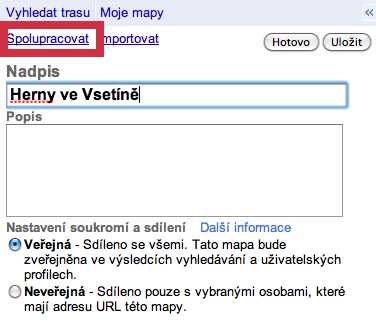
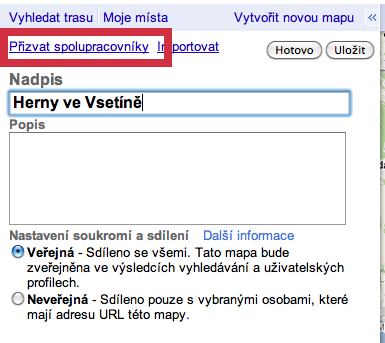
Aktualizace obrazku po Googlim update Mych map + aktualizace instrukci

Changed region(s): [[0.0, 0.0, 0.9362, 0.9697], [0.5851, 0.0, 1.0, 1.0]]

diff --git a/hazard/shared/templates/shared/instruction.html b/hazard/shared/templates/shared/instruction.html
@@ -16,24 +16,24 @@
     <h4>Nakreslení mapy heren</h4>
     <ul>
         <li>Navštivte adresu <a href="http://maps.google.com/">maps.google.com</a>
-        <li>V levém sloupci klikněte na odkaz "Moje mapy".
-        <a href="{{ MEDIA_URL }}img/instruction/moje_mapy.png" class="fb" rel="instr" title="Aplikace Moje Mapy společnosti Google"><img src="{{ MEDIA_URL }}img/instruction/moje_mapy_t.png" width="250"></a>
+        <li>V levém sloupci klikněte na odkaz "Moje místa".
+        <a href="{{ MEDIA_URL }}img/instruction/moje_mista.png" class="fb" rel="instr" title="Aplikace Moje Mapy společnosti Google"><img src="{{ MEDIA_URL }}img/instruction/moje_mista_t.png" width="250"></a>
         <li>Pokud využíváte některou ze služeb společnosti Google (GMail, Reader, apod.)
           a jste přihlášeni, můžete hned začít vytvářet novou mapu. V opačném případě
-          uvidíte tlačítko "Začít". Klikněte na něj a buďto se přihlašte, nebo si
+          uvidíte tlačítko "Přihlásit se". Klikněte na něj a buďto se přihlašte, nebo si
           zřiďte nový uživatelský účet.
           <a href="{{ MEDIA_URL }}img/instruction/zacit.png" class="fb" rel="instr" title="Tlačítko pro vytvoření první mapy"><img src="{{ MEDIA_URL }}img/instruction/zacit_t.png" width="250"></a>
         <li>Po přihlášení uvidíte v levém sloupci odkaz "Vytvořit novou mapu"
           nebo tlačítko "Začít". Klikněte na ně.
         <li>Do políčka nadpis zadejte např. "Herny ve Vsetíně". Ujistěte se, že
           v "Nastavení soukromí a sdílení" máte vybránu volbu "Veřejná".
-        <li>Klikněte na odkaz "Spolupracovat".
+        <li>Klikněte na odkaz "Přizvat spolupracovníky".
           <a href="{{ MEDIA_URL }}img/instruction/spolupracovat.png" class="fb" rel="instr" title="Odkaz Spolupracovat"><img src="{{ MEDIA_URL }}img/instruction/spolupracovat_t.png" width="250"></a>
         <li>V sekci "Spravovat spolupracovníky" zaškrtněte volbu "Povolit úpravu této mapy všem" a klikněte na tlačítko "Ok".
           <a href="{{ MEDIA_URL }}img/instruction/povoleni_uprav.png" class="fb" rel="instr" title="Díky této volbě budou moci na mapě spolupracovat i další lidé"><img src="{{ MEDIA_URL }}img/instruction/povoleni_uprav_t.png" width="250"></a>
-        <li>Najděte v mapě svou obec (mapu přesunete stisknutím levého tlačítka
+        <li>Najděte v mapě svou obec (mapu přesunete stisknutím a přidržením levého tlačítka
         myši), klikněte v levém horním rohu na ikonu špendlíku a dalším
-        kliknutím jej v mapě na místo, kde leží některá z heren.
+        kliknutím jej umístěte v mapě na místo, kde leží některá z heren.
           <a href="{{ MEDIA_URL }}img/instruction/zaznam2.png" class="fb" rel="instr" title="Vložení špendlíku do mapy"><img src="{{ MEDIA_URL }}img/instruction/zaznam2_t.png" width="250"></a>
         <li>Do políčka "Nadpis" v bublině zadejte
           název herny. Pokud máte o ní máte zjištěny nějaké zajímavé informace,
@@ -49,7 +49,7 @@
 
     <h4>Nakreslení mapy budov</h4>
     <ul>
-        <li>V levém sloupci klikněte na odkaz "Moje mapy" a poté na "Vytvořit novou mapu"
+        <li>V levém sloupci klikněte na odkaz "Moje místa" a poté na "Vytvořit novou mapu"
         <li>Do políčka nadpis zadejte např. "Budovy ve Vsetíně".
         <li>Stejně jako v případě heren můžete začít do mapy přidávat špendlíky označující
           konkrétní budovy v obci, v jejichž sousedství nesmějí být herny provozovány
@@ -69,7 +69,7 @@
     <p>Tak. Největší práce je za vámi. Teď už chybí poslední střípek &mdash;
     vložit odkazy map do naší aplikace:</p>
     <ul>
-        <li>V levém sloupci klikněte na odkaz "Moje mapy" a vyberte mapu s hernami.
+        <li>V levém sloupci klikněte na odkaz "Moje místa" a vyberte mapu s hernami.
         <li>Klikněte pravým tlačítkem myši nad odkazem "Zobrazit v aplikaci Google Earth"
           (modrý proužek nad mapou) a vyberte z kontextového menu položku "Kopírovat
           adresu odkazu".
